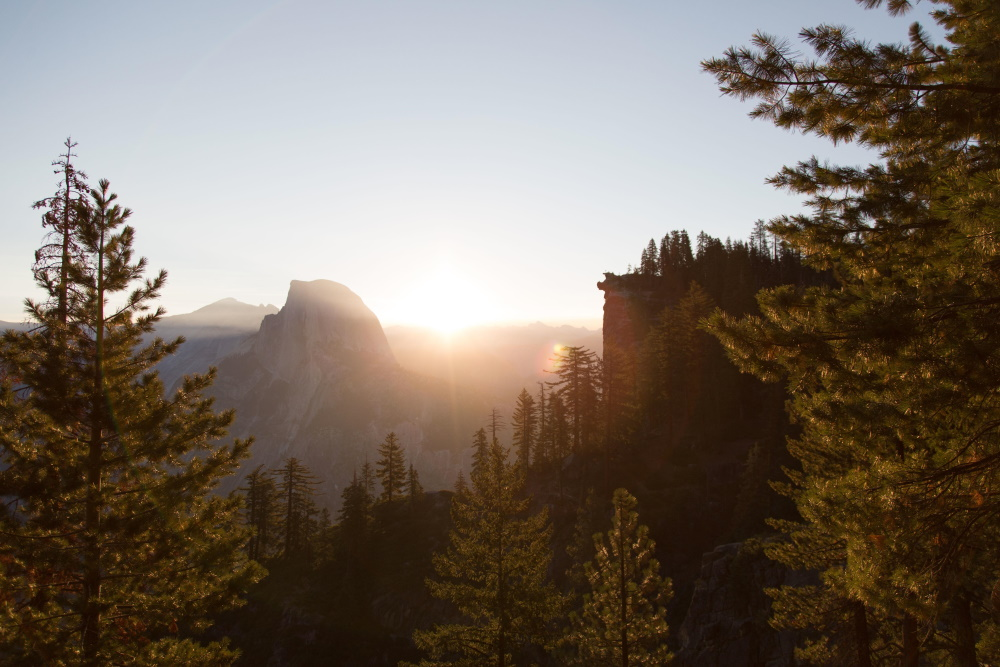
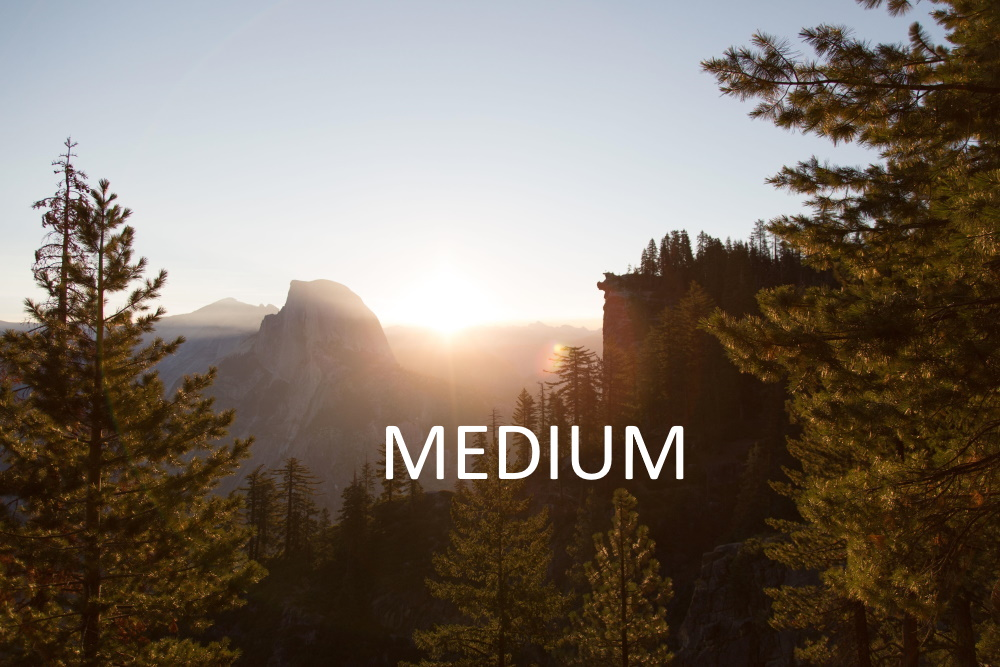
added sourceset and modified pictures to indicate different sizes

Changed region(s): [[0.372, 0.6297, 0.682, 0.7196]]

diff --git a/index.html b/index.html
@@ -12,7 +12,13 @@
             <li><a class="#" href="#">About Us</a></li>
           </ul>
         </nav>
-        <img src= "large/large.jpg" alt="large image" width="400" height="400">
+        <img src= "large/large.jpg" 
+        alt="large image" 
+        srcset="
+          small.jpg 500w,
+          medium.jpg 1000w,
+          large.jpg 2000w,
+          ">
         <head><strong>Lorem</strong></head>
         <p>Lorem ipsum dolor sit amet, consectetur adipiscing elit, <br /> 
           sed do eiusmod tempor incididunt ut labore et dolore magna aliqua. <br />

diff --git a/stylesheet.css b/stylesheet.css
@@ -6,7 +6,7 @@ main header {
 main img {
   display: flex;
   justify-content: column;
-         
+  max-width: 100%;
 }
 nav a:hover {
   background-color: black;
